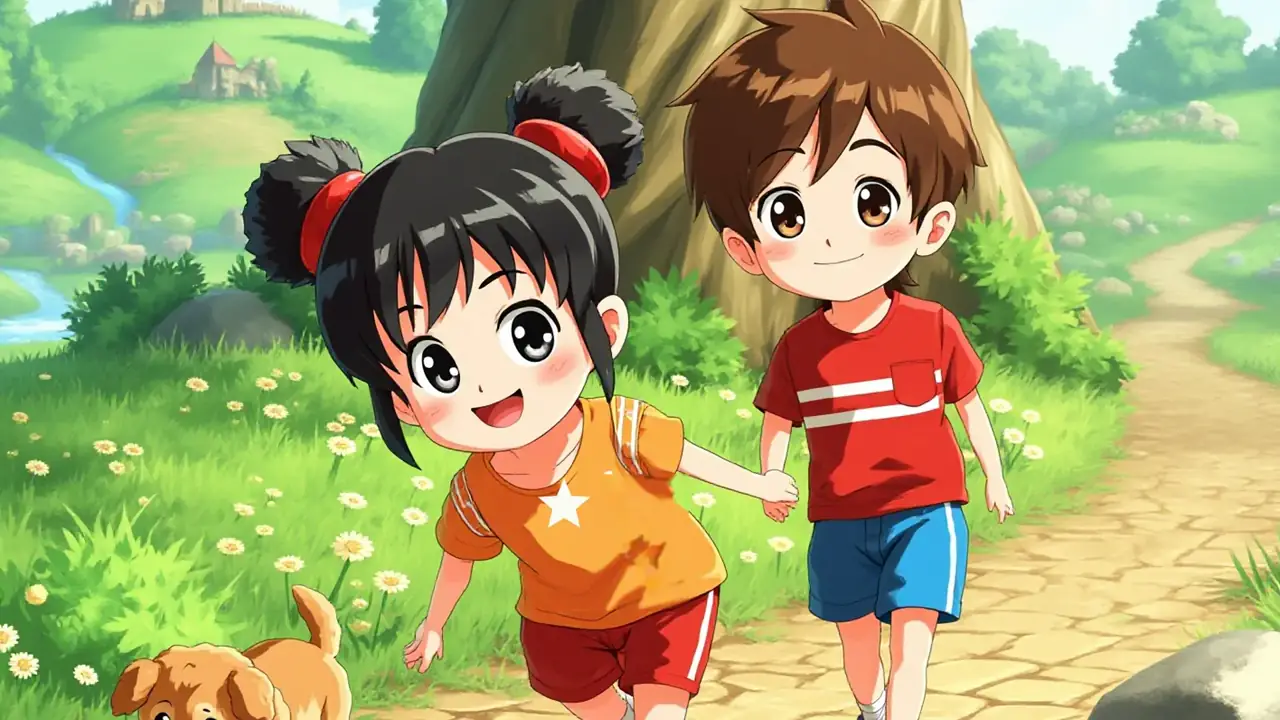
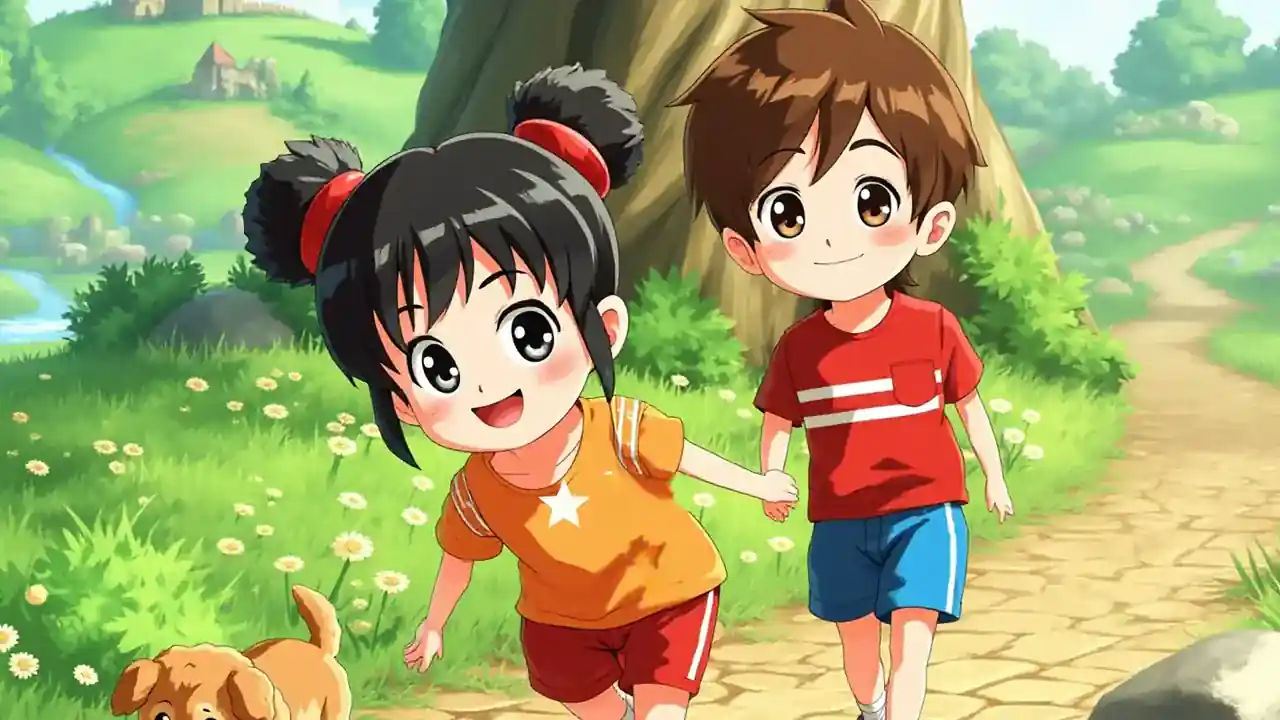
fix(storytime): entry first load under 300000 bytes (track_id: storytime_at_home_release_20261106)

diff --git a/apps/storytime/app/[locale]/sign-in/page.tsx b/apps/storytime/app/[locale]/sign-in/page.tsx
@@ -148,7 +148,9 @@ export default async function SignInPage({
           ) : null}
         </div>
         <p data-entry-nologin>
-          <Link href={`/${locale}/join`}>{t("signInNoLogin")}</Link>
+          <Link href={`/${locale}/join`} prefetch={false}>
+            {t("signInNoLogin")}
+          </Link>
         </p>
       </section>
     </main>
